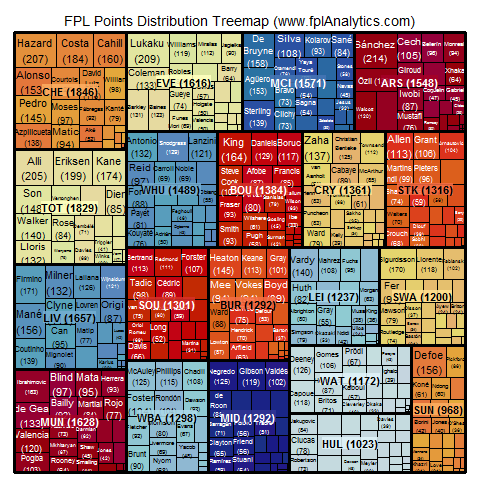
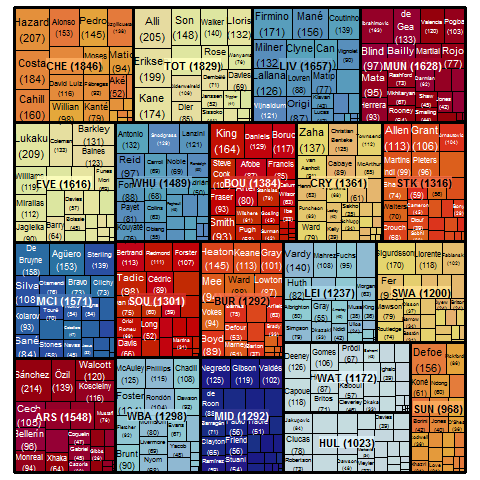
update

diff --git a/fplanalytics/index.html b/fplanalytics/index.html
@@ -149,8 +149,8 @@
 
                 <!-- single work -->
                 <div class="col-md-3 col-sm-6">
-                    <a href="single-project.html" class="portfolio_item">
-                        <img src="http://placehold.it/1000x1000" alt="image" class="img-responsive" />
+                    <a href="treeMap.html" class="portfolio_item">
+                        <img src="https://gpoudel.github.io/gitFPL/fplBoardLive/2016/treeMap.png" alt="image" class="img-responsive" />
                         <div class="portfolio_item_hover">
                             <div class="portfolio-border clearfix">
                                 <div class="item_info">
